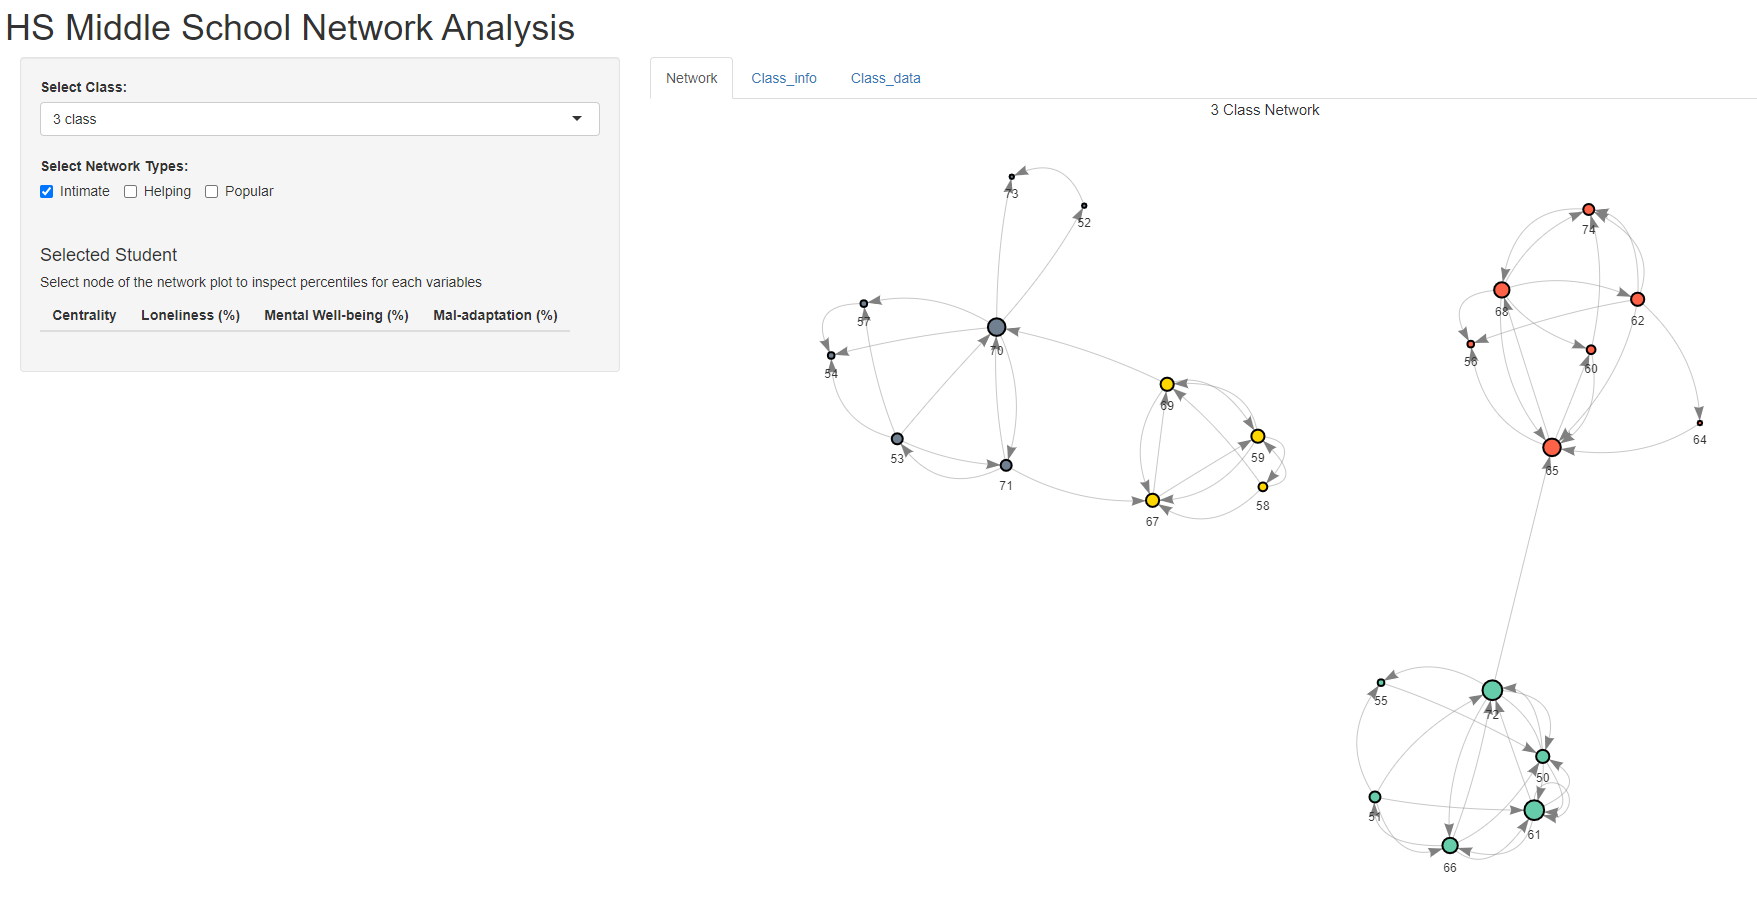
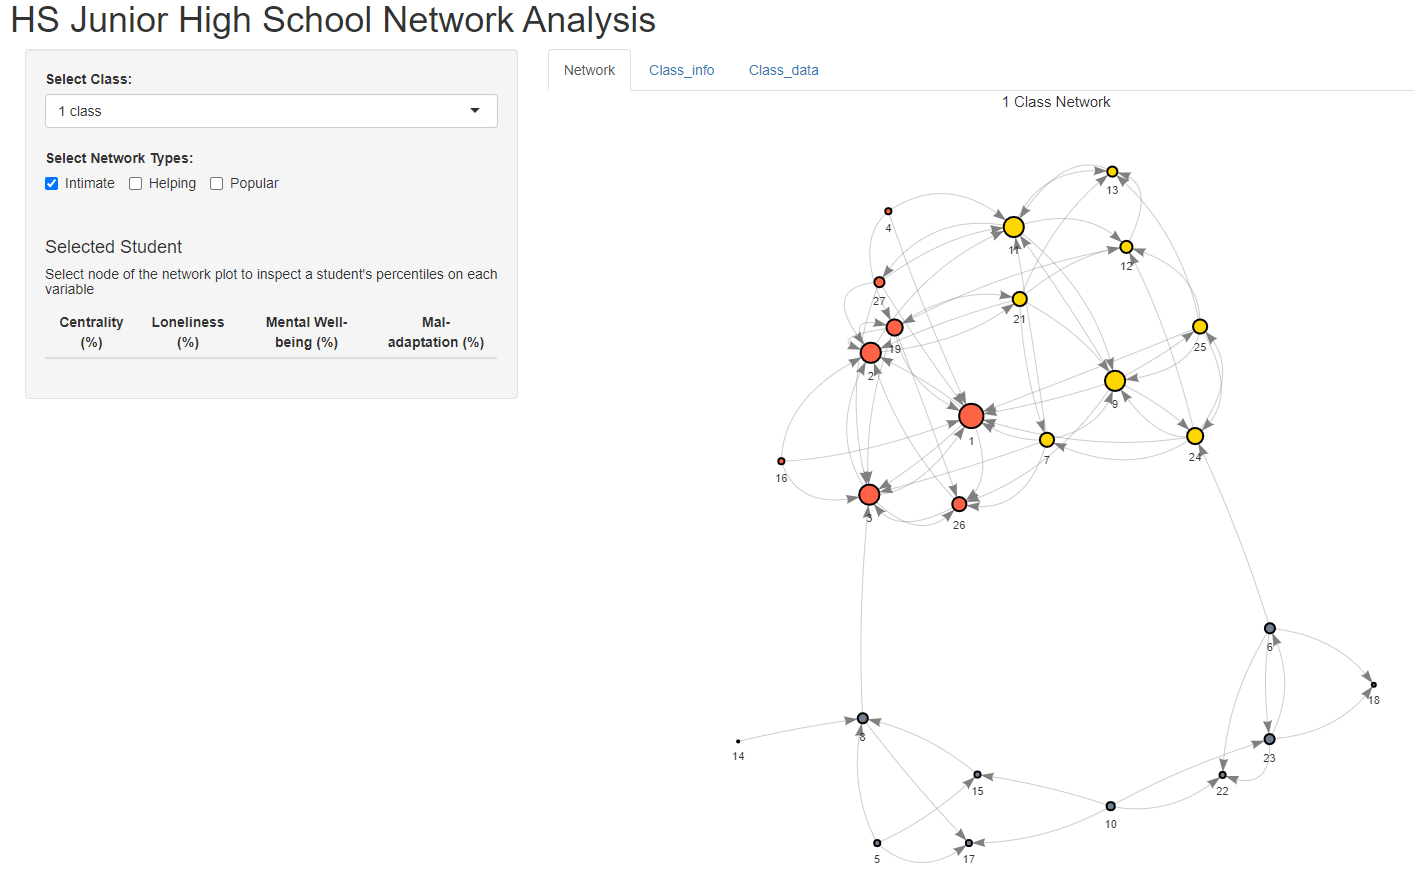
post

diff --git a/content/post/map-of-lib-arts-lec/index.md b/content/post/map-of-lib-arts-lec/index.md
@@ -6,7 +6,7 @@ draft: false
 featured: false
 
 image:
-  caption: 'Click for the App: [**The Map of Liberal Arts Lectures (Only for Korean)**](https://koreauniv-datahub.shinyapps.io/map_of_arts_lec/)'
+  caption: 'Click for the App: [**The Map of Liberal Arts Lectures (Korean)**](https://koreauniv-datahub.shinyapps.io/map_of_arts_lec/)'
   focal_point: ""
   placement: 2
   preview_only: false
@@ -14,7 +14,7 @@ image:
 # projects: 
 
 subtitle: 
-summary: Explore the map of liberal arts lectures based on course history big data.
+summary: Explore the map of liberal arts lectures based on the 10 years of Korea University's course history.
 
 tags:
 - Bayesian probability
@@ -24,7 +24,7 @@ tags:
 - R
 - Shiny
 
-title: 'The Map of Liberal Arts Lectures'
+title: 'The Interactive report of Psychological Assessment'
 ---
 
 

diff --git a/content/post/hs-network-analysis/index.md b/content/post/hs-network-analysis/index.md
@@ -15,7 +15,7 @@ image:
 
 subtitle: 
 
-summary: A dashboard for middle school teachers to inspect the peer network of students and their psychological properties. 
+summary: A dashboard for junior high school teachers to inspect the peer networks of students and their psychological properties. 
 
 tags:
 - Network analysis
@@ -24,10 +24,8 @@ tags:
 - R
 - Shiny
 
-title: 'HS Middle School Network Analysis'
+title: 'HS Junior High School Network Analysis'
 ---
 
+- Conducted network analysis of junior high school classes and built Shiny web applications using R to visualize the analyzed results
 
-
-
-This is the result of visualizing the data of 1,310 randomly selected books out of 4,366 books of Korea University Library. Bayesian probability and UMAP algorithm were used for data analysis and visualization.

diff --git a/content/post/psych-test-report/index.md b/content/post/psych-test-report/index.md
@@ -1,0 +1,27 @@
+---
+authors:
+- admin
+date: "2019-06-01"
+draft: false
+featured: false
+
+image:
+  caption: 'Click for the Example: [**The Interactive report of Psychological Assessment (Korean)**](https://a072826.github.io/kibum_moon/19_2_KUSCC.html)'
+  focal_point: ""
+  placement: 2
+  preview_only: false
+
+# projects: 
+
+subtitle: 
+summary: Provide interactive reports with personalized interpretations on the results of psychological assessments
+
+tags:
+- Psychologcial Assessment
+- Visualization
+- R
+
+title: 'The Interactive report of Psychological Assessment'
+---
+
+
